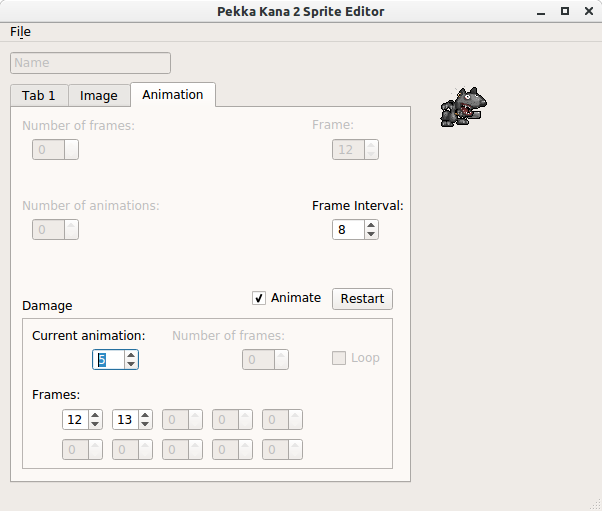
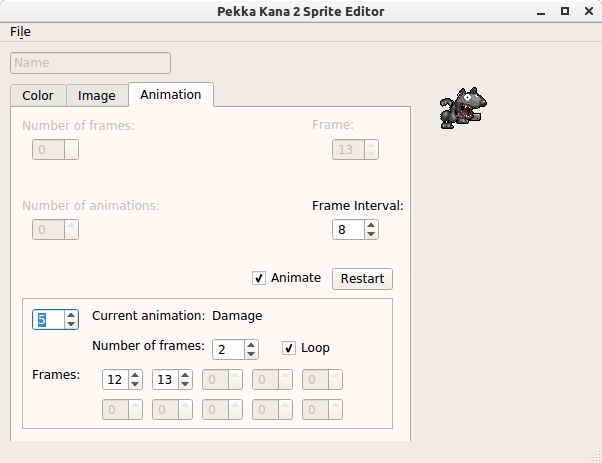
Add function call to PBoxNumber

diff --git a/qt/sc_window.cpp b/qt/sc_window.cpp
@@ -17,6 +17,7 @@
 #include "../src/constants.h"
 
 AnimThread anim_thread;
+SC_Window* sc_window;
 
 void AnimThread::run(){
     active = true;
@@ -34,7 +35,7 @@ void SC_Window::animate(){
     if(lastframe != currentframe){
         sprite_prototype->Piirra(0,0,currentframe);
         ui->box_frame->setValue(currentframe);
-        framebox_list[sprite->sekvenssi_index]; //Change color or something
+        //framebox_list[sprite->sekvenssi_index]; //Change color or something
     }
 }
 
@@ -52,6 +53,8 @@ void SC_Window::GetFrameSpinBoxes(){
 }
 
 SC_Window::SC_Window(QWidget *parent) : QMainWindow(parent), ui(new Ui::SC_Window){
+    sc_window = this;
+
     sprite_prototype = new PK2Sprite_Prototyyppi();
     sprite = new PK2Sprite(sprite_prototype,0,true,0,0);
 
@@ -90,12 +93,28 @@ void SC_Window::LinkVars(){
     //Image
 
     //Animation
-    ui->box_curranim->link_var(sprite->animaatio_index);
     ui->box_interval->link_var(sprite_prototype->frame_rate);
+
+    ui->box_curranim->link_function( [](){
+        int value = sc_window->sprite->animaatio_index;
+        sc_window->ui->txt_animationName->setText(animationlist[value]);
+        sc_window->ui->box_loop->link_var(sc_window->sprite_prototype->animaatiot[value].looppi);
+        sc_window->ui->box_curnofframes->link_var(sc_window->sprite_prototype->animaatiot[value].frameja);
+        sc_window->updateFrameSpinBoxes();
+    });
+    ui->box_curranim->link_var(sprite->animaatio_index);
+
+    ui->box_frame->link_function( [](){
+        sc_window->sprite_prototype->Piirra(0,0,sc_window->currentframe);
+    });
+    ui->box_frame->link_var(currentframe);
+
+    ui->box_curnofframes->link_function( [](){
+        sc_window->updateFrameSpinBoxes();
+    });
 
     connect(ui->box_animate, SIGNAL(stateChanged(int)),       this, SLOT(boxanimate_changed(int)));
     connect(ui->box_restart, SIGNAL(clicked()),               this, SLOT(restartanimation()));
-    connect(ui->box_frame,   SIGNAL(valueChanged(int)),       this, SLOT(boxcurrentframe_changed(int)));
 
 }
 
@@ -131,20 +150,6 @@ void SC_Window::save(){
 void SC_Window::reset(){
 
 }
-void SC_Window::boxcurrentframe_changed(int value){
-    currentframe = value;
-    sprite_prototype->Piirra(0,0,value);
-}
-void SC_Window::boxcurrentanimation_changed(int value){
-    //sprite->animaatio_index = value;
-    ui->txt_animationName->setText(animationlist[value]);
-    ui->box_loop->link_var(sprite_prototype->animaatiot[value].looppi);
-    this->updateFrameSpinBoxes();
-}
-void SC_Window::boxloop_changed(bool value){
-    int currentanimation = sprite->animaatio_index;
-    sprite_prototype->animaatiot[currentanimation].looppi = value;
-}
 
 void SC_Window::boxcolor_changed(int value){
     if(value != 0){
@@ -170,17 +175,23 @@ void SC_Window::updateFrameSpinBoxes(){
     int i;
     int currentanimation = sprite->animaatio_index;
     int nofframes = sprite_prototype->animaatiot[currentanimation].frameja;
+    int max_frames = sprite_prototype->frameja;
+    BYTE* working_frame;
 
     for(i = 0; i < nofframes; i++){
+        working_frame = &sprite_prototype->animaatiot[currentanimation].sekvenssi[i];
         framebox_list[i]->setEnabled(true);
         framebox_list[i]->setOffset(1);
-        framebox_list[i]->link_var(sprite_prototype->animaatiot[currentanimation].sekvenssi[i]);
+        if(*working_frame <= 0 || *working_frame > max_frames) *working_frame = 1;
+        framebox_list[i]->link_var(*working_frame);
         framebox_list[i]->setMaximum(sprite_prototype->frameja - 1);
     }
     for(; i < 10 ; i++){
+        working_frame = &sprite_prototype->animaatiot[currentanimation].sekvenssi[i];
         framebox_list[i]->setEnabled(false);
         framebox_list[i]->setOffset(1);
-        framebox_list[i]->link_var(sprite_prototype->animaatiot[currentanimation].sekvenssi[i]);
+        if(*working_frame <= 0 || *working_frame > max_frames) *working_frame = 1;
+        framebox_list[i]->link_var(*working_frame);
         framebox_list[i]->setValue(0);
     }
 }
@@ -204,10 +215,13 @@ void SC_Window::updateAll(){
         ui->txt_frame->setEnabled(true);
         ui->box_frame->setEnabled(true);
         ui->box_frame->setValue(0);
-        this->boxcurrentframe_changed(0);
     }
 
     ui->box_animate->setEnabled(true);
+
+    ui->txt_nofframes->setEnabled(true);
+    ui->box_curnofframes->setEnabled(true);
+    ui->box_curnofframes->setMaximum(10);
 
     ui->txt_interval->setEnabled(true);
     ui->box_interval->setEnabled(true);

diff --git a/qt/PBox/pboxnumber.cpp b/qt/PBox/pboxnumber.cpp
@@ -1,5 +1,9 @@
 #include "pboxnumber.h"
 
+void PBoxNumber::link_function(func function){
+    this->change_function = function;
+}
+
 void PBoxNumber::change_var(int value){
     if(type = PBOX_DWORD && variable_dword != NULL)
         *variable_dword = (DWORD)(value + this->offset);
@@ -9,32 +13,41 @@ void PBoxNumber::change_var(int value){
         *variable_byte = (BYTE)(value + this->offset);
     if(type = PBOX_int && variable_int != NULL)
         *variable_int = value + this->offset;
+
+    if(change_function != NULL)
+        change_function();
 }
 
 void PBoxNumber::link_var(DWORD& variable){
     this->variable_dword = &variable;
     this->type = PBOX_DWORD;
-    this->setMinimum(0);
-    this->setValue(variable - this->offset);
+    if(this->minimum() < 0) this->setMinimum(0);
+    this->PsetValue(variable - this->offset);
 }
 void PBoxNumber::link_var(WORD& variable){
     this->variable_word = &variable;
     this->type = PBOX_WORD;
-    this->setMinimum(0);
+    if(this->minimum() < 0) this->setMinimum(0);
     this->setMaximum(65535);
-    this->setValue(variable - this->offset);
+    this->PsetValue(variable - this->offset);
 }
 void PBoxNumber::link_var(BYTE& variable){
     this->variable_byte = &variable;
     this->type = PBOX_BYTE;
-    this->setMinimum(0);
+    if(this->minimum() < 0) this->setMinimum(0);
     this->setMaximum(255);
-    this->setValue(variable - this->offset);
+    this->PsetValue(variable - this->offset);
 }
 void PBoxNumber::link_var(int& variable){
     this->variable_int = &variable;
     this->type = PBOX_int;
-    this->setValue(variable - this->offset);
+    this->PsetValue(variable - this->offset);
+}
+
+void PBoxNumber::PsetValue(int value){
+    if(this->value() == value)
+        this->change_var(value);
+    else this->setValue(value);
 }
 
 void PBoxNumber::setOffset(int offset){

diff --git a/qt/PBox/pboxnumber.h b/qt/PBox/pboxnumber.h
@@ -1,6 +1,9 @@
 #ifndef PBOXNUMBER_H
 #define PBOXNUMBER_H
 
+#include <functional>
+#include <iostream>
+
 #include <QSpinBox>
 #include "../../src/types.h"
 
@@ -9,17 +12,24 @@
 #define PBOX_BYTE  2
 #define PBOX_int   3
 
+typedef std::function<void()> func;
+
 class Q_WIDGETS_EXPORT PBoxNumber : public QSpinBox {
     Q_OBJECT
 
 public:
     PBoxNumber(QWidget* widget);
     ~PBoxNumber();
+
+    void link_function(func function);
+
     void link_var(DWORD& variable);
     void link_var(WORD& variable);
     void link_var(BYTE& variable);
     void link_var(int& variable);
+
     void setOffset(int offset);
+    void PsetValue(int value);
 
 private:
     DWORD* variable_dword;
@@ -29,6 +39,7 @@ private:
 
     int type;
     int offset;
+    func change_function;
 
 private slots:
     void change_var(int value);

diff --git a/qt/sc_window.h b/qt/sc_window.h
@@ -26,17 +26,15 @@ public:
 
     bool animating = false;
 
+    void boxcurrentframe_changed();
+
 public slots:
     void open();
     void save();
     void reset();
 
-    void boxcurrentframe_changed(int value);
-    void boxcurrentanimation_changed(int value);
     void boxcolor_changed(int value);
     void boxanimate_changed(int value);
-    void boxloop_changed(bool value);
-
     void restartanimation();
 
 private:
